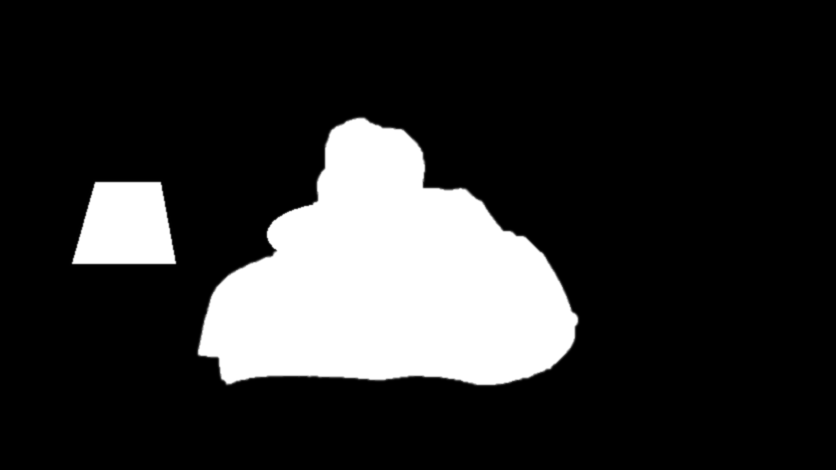
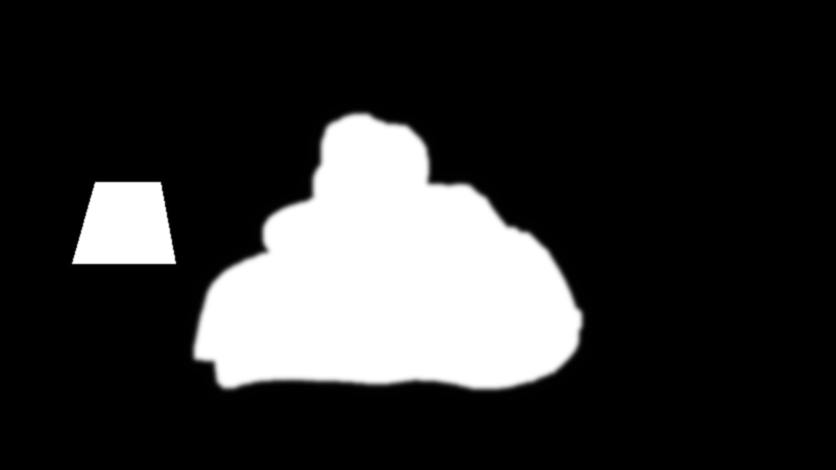
Tóc: tuyết không đè lên sợi tóc ở mép (mặt nạ rộng cho tuyết, mặt nạ sát cho sương kính)
Claude-Session: https://claude.ai/code/session_018LWP6QAxse55v6Pm2E99MN

Changed region(s): [[0.2177, 0.2383, 0.7153, 0.834]]

diff --git a/src/scenes/snowLayout.ts b/src/scenes/snowLayout.ts
@@ -2,8 +2,11 @@ import base from '../assets/snow-land.webp'
 import point from '../assets/snow-land-point.webp'
 import pat from '../assets/snow-land-pat.webp'
 import hide1 from '../assets/snow-hide-1.png'
+import tight1 from '../assets/snow-hide-tight-1.png'
 import hide2 from '../assets/snow-hide-2.png'
+import tight2 from '../assets/snow-hide-tight-2.png'
 import hide3 from '../assets/snow-hide-3.png'
+import tight3 from '../assets/snow-hide-tight-3.png'
 import dark1 from '../assets/snow-dark-1.webp'
 import dark2 from '../assets/snow-dark-2.webp'
 import dark3 from '../assets/snow-dark-3.webp'
@@ -16,7 +19,7 @@ import warm3 from '../assets/snow-warm-3.webp'
  * `panes`: những ô kính trong, tuyết và hơi nước chỉ nằm trong các ô này (không đè lên khung gỗ).
  * `hide`: mặt nạ che hai người (tuyết ở phía sau kính nên phải đi sau lưng họ).
  */
-export type Pose = { src: string; hide: string }
+export type Pose = { src: string; hide: string; tight: string }
 /** Bản đồ ánh sáng khi tắt đèn, dựng sẵn cho từng dáng ngồi (khung 836x470, kéo giãn ra khung ảnh): lớp tối (cả phòng + hai người, theo một trường sáng chung quanh các ngọn nến) và lớp ánh ấm. */
 export const LM = { dark: [dark1, dark2, dark3], warm: [warm1, warm2, warm3] }
 export const SNOW = {
@@ -29,8 +32,8 @@ export const SNOW = {
   /** Chiếc đèn lồng nhỏ có nến ở góc dưới trái: bấm vào để tắt hoặc bật đèn. */
   lamp: [[40, 650], [110, 650], [140, 700], [140, 865], [8, 865], [8, 700]] as [number, number][],
   poses: [
-    { src: base, hide: hide1 },
-    { src: point, hide: hide2 },
-    { src: pat, hide: hide3 },
+    { src: base, hide: hide1, tight: tight1 },
+    { src: point, hide: hide2, tight: tight2 },
+    { src: pat, hide: hide3, tight: tight3 },
   ] as Pose[],
 }

diff --git a/src/scenes/SnowWatch.tsx b/src/scenes/SnowWatch.tsx
@@ -383,7 +383,7 @@ export default function SnowWatch({ active }: { active: boolean }) {
   const [lampHov, setLampHov] = useState(false)
   // giải mã sẵn mọi ảnh phụ (mặt nạ, bản đồ tối) để lúc đổi dáng không có khoảnh khắc ảnh chưa sẵn (gây nháy)
   useEffect(() => {
-    const keep = [...L.poses.map((q) => q.hide), ...LM.dark, ...LM.warm].map((u) => { const im = new Image(); im.decoding = 'async'; im.src = u; im.decode?.().catch(() => {}); return im })
+    const keep = [...L.poses.map((q) => q.hide), ...L.poses.map((q) => q.tight), ...LM.dark, ...LM.warm].map((u) => { const im = new Image(); im.decoding = 'async'; im.src = u; im.decode?.().catch(() => {}); return im })
     return () => { keep.length = 0 }
   }, [])
   const [g, setG] = useState({ s: 1, x: 0, y: 0 })
@@ -450,6 +450,7 @@ export default function SnowWatch({ active }: { active: boolean }) {
 
   const mask = L.poses[maskPose]
   const maskStyle = { WebkitMaskImage: `url(${mask.hide})`, maskImage: `url(${mask.hide})` }
+  const tightStyle = { WebkitMaskImage: `url(${mask.tight})`, maskImage: `url(${mask.tight})` }
   const gb = L.panes.reduce((m, [x, y, w, h]) => ({ x1: Math.min(m.x1, x), y1: Math.min(m.y1, y), x2: Math.max(m.x2, x + w), y2: Math.max(m.y2, y + h) }), { x1: 1e9, y1: 1e9, x2: 0, y2: 0 })
 
   return (
@@ -470,6 +471,8 @@ export default function SnowWatch({ active }: { active: boolean }) {
             <Meteors active={active} fire={fire} />
             <SnowFall active={active} />
             <ClingSnow active={active} />
+          </div>
+          <div className="sw-fx" style={tightStyle}>
             <Fog active={active} wipeRef={wipeRef} />
           </div>
 

diff --git a/tools/snow/bake-light.py b/tools/snow/bake-light.py
@@ -35,8 +35,13 @@ for n in ['1','2','3']:
     # chao đèn bàn đứng trước ô kính bên trái: cũng che tuyết phía sau nó
     lampm=np.zeros((H,W),np.float32); cv2.fillPoly(lampm,[np.array([[190,365],[320,365],[350,527],[145,527]])//2],1.0)
     lampm=cv2.GaussianBlur(lampm,(0,0),.7)
-    hide=np.zeros((H,W,4),np.uint8); hide[...,3]=np.clip((1-np.maximum(sil,lampm))*255,0,255)
-    cv2.imwrite(A+f'snow-hide-{n}.png',hide,[cv2.IMWRITE_PNG_COMPRESSION,9])
+    # che nở ra ~8px và nhoè nhẹ: tuyết/sương không bao giờ đè lên sợi tóc lòa xòa ở mép (trước đây chỗ phủ chỗ không, nhìn như tóc bị cắt)
+    sil_h=cv2.GaussianBlur(cv2.dilate(sil,np.ones((9,9),np.uint8)),(0,0),2.2)
+    hide=np.zeros((H,W,4),np.uint8); hide[...,3]=np.clip((1-np.maximum(sil_h,lampm))*255,0,255)
+    cv2.imwrite(A+f'snow-hide-{n}.png',hide,[cv2.IMWRITE_PNG_COMPRESSION,9])   # rộng: dùng cho tuyết rơi, sao băng, tuyết bám (không bao giờ đè lên sợi tóc)
+    sil_t=cv2.GaussianBlur(sil,(0,0),1.6)
+    tight=np.zeros((H,W,4),np.uint8); tight[...,3]=np.clip((1-np.maximum(sil_t,lampm))*255,0,255)
+    cv2.imwrite(A+f'snow-hide-tight-{n}.png',tight,[cv2.IMWRITE_PNG_COMPRESSION,9])  # sát mép, mép nhoè: dùng cho lớp sương trên kính (sương không được tạo quầng quanh người)
     # Bóng KHÔNG dùng hình cắt người (hình cắt luôn để lại viền ở mép). Ô kính sáng ngoài trời; người ngồi trước kính vốn đã tối (ngược sáng),
     # nên chỉ cần tối phần còn lại của phòng. Ô kính mờ dần về phía bậu cửa (470 -> 585) để không có đường ngang cắt qua áo ở chỗ giáp bậu cửa.
     ramp=np.interp(Y,[470,585],[1,0]).astype(np.float32)

diff --git a/HANDOFF.md b/HANDOFF.md
@@ -195,3 +195,4 @@ npx tsc -b        # kiểm tra kiểu
 ### Bố cục điện thoại dọc cho cảnh ngắm tuyết + script kiểm toàn trang
 - Cảnh ngắm tuyết ở màn dọc (`tall`): cảnh nằm phía trên vừa cả chiều cao, chữ nằm ở dải tối phía dưới (như các cảnh khác), không còn chữ đè lên chăn. Vẫn dùng ảnh ngang (chưa có ảnh dọc): chỉ thấy hai người và phần giữa cửa sổ.
 - `tools/smoke/shots.cjs`: chụp 4 cảnh chính ở 1440x900 và 390x844 và báo lỗi console. Chạy sau mỗi thay đổi lớn (xem hướng dẫn ở đầu tệp). Lần chạy gần nhất: không lỗi console ở cả hai cỡ.
+- Tóc lòa xòa ở đỉnh đầu (Long báo "chỗ được chỗ không"): hai mặt nạ che khác nhau. `snow-hide-*.png` (rộng ~8px, nhoè) cho tuyết rơi, sao băng, tuyết bám để chúng không đè lên sợi tóc; `snow-hide-tight-*.png` (sát mép, nhoè nhẹ) riêng cho lớp sương kính để sương không để lại quầng sẫm quanh đầu. Cả hai do `tools/snow/bake-light.py` sinh ra.
